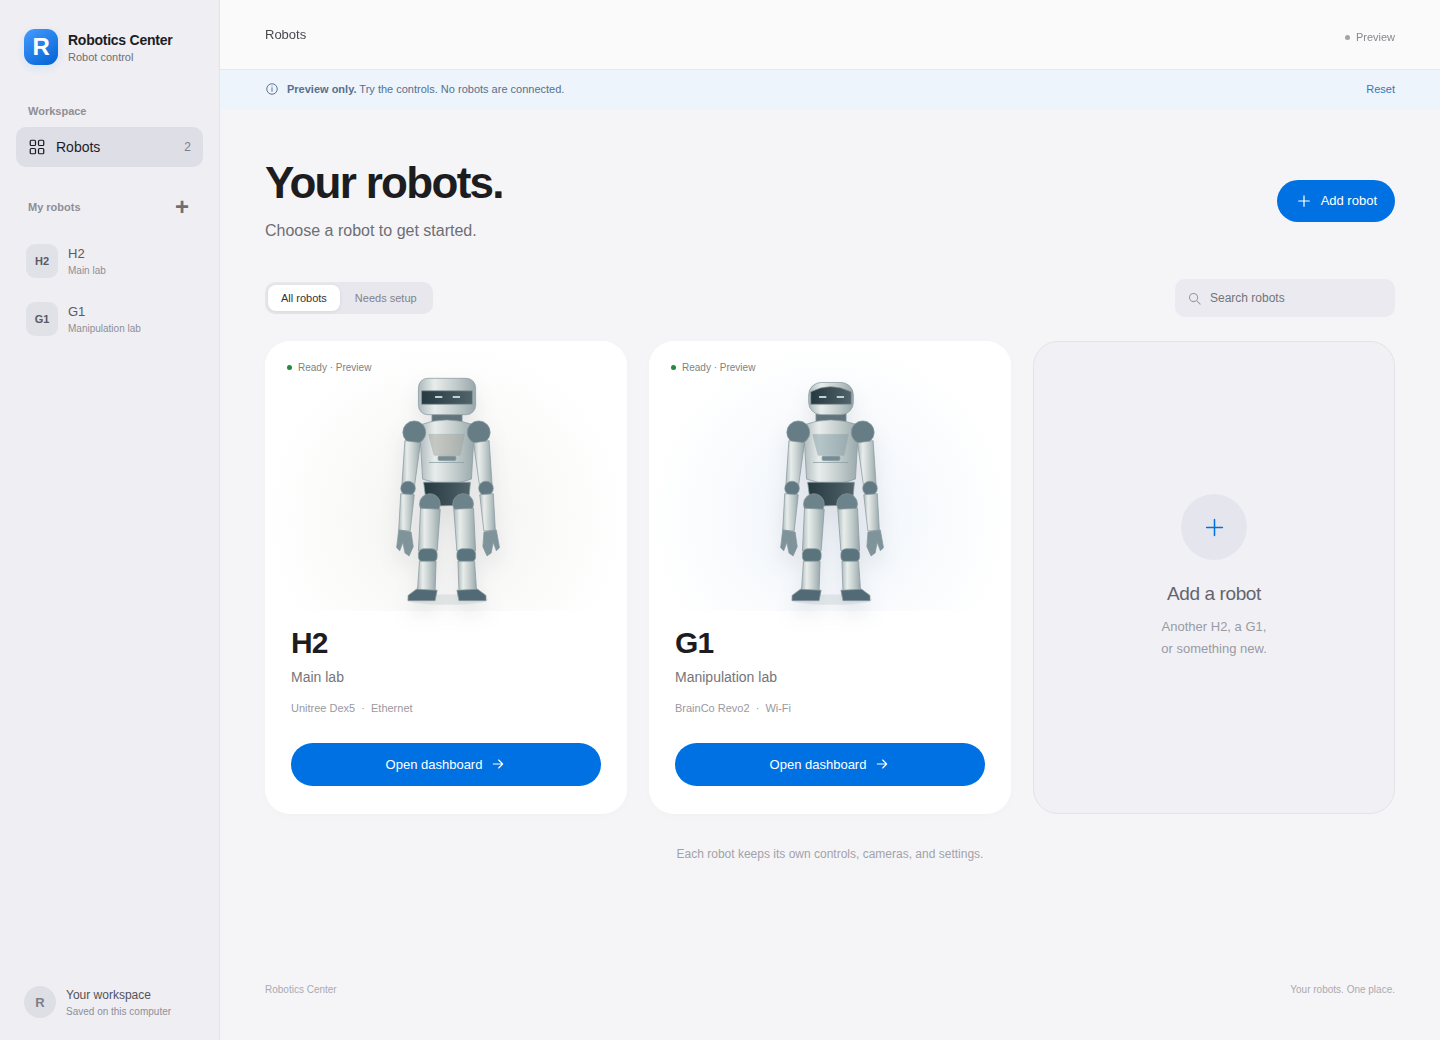
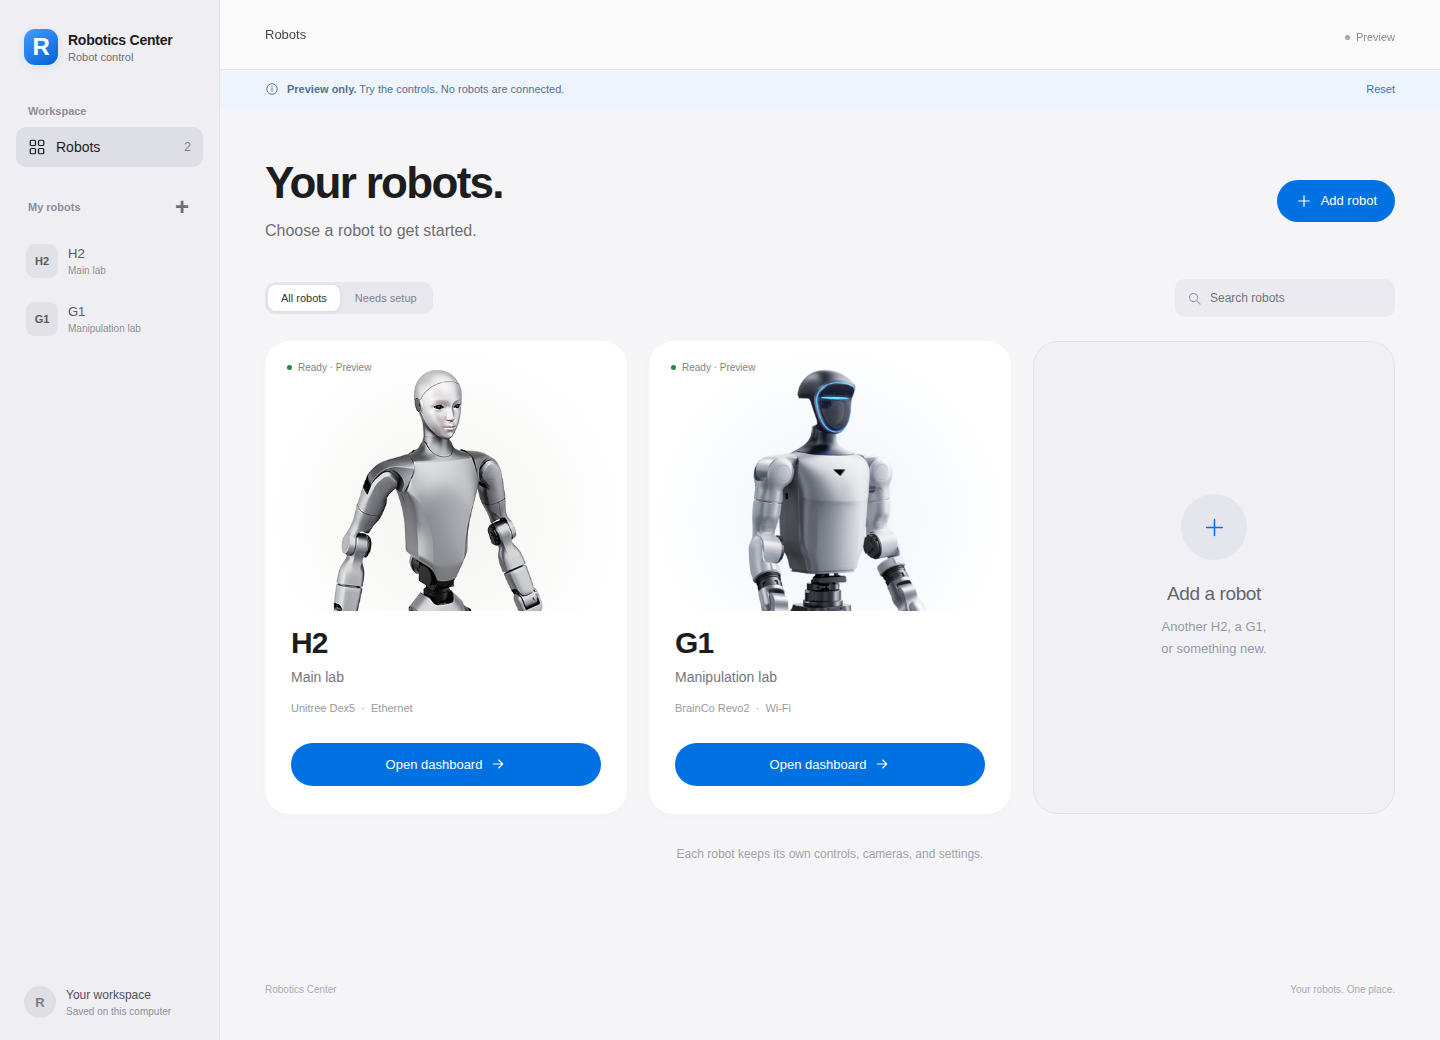
Use official Unitree H2 and G1 product images

Changed region(s): [[0.5, 0.3385, 0.6562, 0.5846], [0.2188, 0.3385, 0.375, 0.5846]]

diff --git a/dashboard/preview/app.js b/dashboard/preview/app.js
@@ -43,6 +43,7 @@ function toast(text){$('#toast').textContent=text;$('#toast').classList.add('vis
 
 let artSequence=0;
 function robotArt(model='h2'){
+  if(model==='h2'||model==='g1')return `<img class="robot-illustration robot-photo" src="assets/unitree-${model}.png" alt="Unitree ${model.toUpperCase()} humanoid robot" width="428" height="404" decoding="async">`;
   const uid='metal'+(++artSequence),g1=model==='g1',accent=g1?'#849ea7':'#a6a49c';
   return `<svg class="robot-illustration" viewBox="0 0 150 230" aria-hidden="true"><defs><linearGradient id="${uid}" x1="0" x2="1"><stop stop-color="#aeb9bc"/><stop offset=".28" stop-color="#e8edeb"/><stop offset=".6" stop-color="#c8d1d0"/><stop offset="1" stop-color="#98a8ac"/></linearGradient><linearGradient id="${uid}dark"><stop stop-color="#253940"/><stop offset="1" stop-color="#52636a"/></linearGradient></defs><ellipse cx="76" cy="221" rx="39" ry="5" fill="#8b9ba0" opacity=".18"/><g stroke="#87989d" stroke-width=".7"><path d="M61 39h29v17H61z" fill="#61747b"/><rect x="${g1?54:48}" y="${g1?12:8}" width="${g1?43:55}" height="${g1?31:35}" rx="${g1?12:9}" fill="url(#${uid})"/><path d="${g1?'M56 21q19-10 39 0v12H56Z':'M51 20h49v13H51Z'}" fill="url(#${uid}dark)"/><path d="M64 26h7m10 0h7" stroke="#bdd3d3" stroke-width="1.8"/><path d="M49 53q26-10 53 0l-3 52q-23 9-47 0Z" fill="url(#${uid})"/><path d="M58 62h34l-4 20H63Z" fill="${accent}" opacity=".5"/><path d="M58 89h34" stroke="#879ba1"/><rect x="67" y="83" width="17" height="4" rx="1" fill="#758c94"/><circle cx="44" cy="60" r="11" fill="#667d86"/><circle cx="106" cy="60" r="11" fill="#667d86"/><path d="m35 68 15 2-6 43-12-1Z" fill="url(#${uid})"/><path d="m101 70 15-2 3 44-12 1Z" fill="url(#${uid})"/><circle cx="38" cy="114" r="7" fill="#607983"/><circle cx="113" cy="114" r="7" fill="#607983"/><path d="m31 119 13 1-4 35-11-1Z" fill="url(#${uid})"/><path d="m107 120 13-1 2 35-11 1Z" fill="url(#${uid})"/><path d="m29 154 12 2 2 14-4 9-4-3-2-10-3 8-3-3Z" fill="#7e939a"/><path d="m111 156 12-2 3 17-3 3-3-8-2 10-4 3-4-9Z" fill="#7e939a"/><path d="M53 108h45l-2 22-40 1Z" fill="url(#${uid}dark)"/><circle cx="59" cy="129" r="10" fill="#6c838c"/><circle cx="91" cy="129" r="10" fill="#6c838c"/><path d="m50 133 19 1-3 40H48Z" fill="url(#${uid})"/><path d="m82 134 19-1 2 41H85Z" fill="url(#${uid})"/><rect x="48" y="172" width="18" height="13" rx="5" fill="#5a747e"/><rect x="85" y="172" width="18" height="13" rx="5" fill="#5a747e"/><path d="M49 184h16l-1 29H47Z" fill="url(#${uid})"/><path d="M86 184h16l2 29H87Z" fill="url(#${uid})"/><path d="m46 211 20 1-2 10H38v-5Z" fill="#526a75"/><path d="m85 212 20-1 8 6v5H87Z" fill="#526a75"/></g></svg>`;
 }

diff --git a/dashboard/preview/styles.css b/dashboard/preview/styles.css
@@ -107,6 +107,7 @@ main { max-width: 1370px; padding: 49px 45px 50px; margin: auto; min-height: cal
 .robot-card-art { display: flex; align-items: center; justify-content: center; height: 270px; position: relative; background: radial-gradient(ellipse at 50% 65%,#f3f3f1,#fff 70%); }
 .robot-card-art.g1 { background: radial-gradient(ellipse at 50% 65%,#eff4fa,#fff 70%); }
 .robot-illustration { width: 157px; height: 239px; margin-top: 27px; filter: drop-shadow(0 12px 10px #2a374619); }
+.robot-card-art .robot-photo { width: 100%; height: 100%; margin: 0; object-fit: contain; object-position: center bottom; filter: none; }
 .card-badge { position: absolute; top: 21px; left: 22px; display: inline-flex; align-items: center; gap: 6px; color: #7e8381; font-size: 10px; }
 .card-badge .dot { width: 5px; height: 5px; }
 .robot-card-content { padding: 15px 26px 28px; flex: 1; display: flex; flex-direction: column; }

diff --git a/dashboard/checks/browser_check.py b/dashboard/checks/browser_check.py
@@ -39,7 +39,7 @@ async def main():
                     return result.get('result', {})
 
         async def evaluate(expression):
-            result = await call('Runtime.evaluate', {'expression': expression, 'returnByValue': True})
+            result = await call('Runtime.evaluate', {'expression': expression, 'returnByValue': True, 'awaitPromise': True})
             if 'exceptionDetails' in result:
                 raise RuntimeError(result['exceptionDetails'])
             return result['result'].get('value')
@@ -70,6 +70,8 @@ async def main():
         await asyncio.sleep(.5)
         await click('[data-action="reset"]')
         await expect('Robot picker contains H2 and G1', 'document.querySelectorAll("[data-robot-card]").length === 2')
+        await evaluate('Promise.all(Array.from(document.querySelectorAll(".robot-photo"), image => image.decode()))')
+        await expect('Official H2 and G1 product images load', 'document.querySelectorAll(".robot-photo").length === 2 && Array.from(document.querySelectorAll(".robot-photo")).every(image => image.complete && image.naturalWidth === 428 && image.naturalHeight === 404 && image.alt.includes("Unitree"))')
         await expect('Preview disclosure stays visible', 'document.querySelector(".preview-banner").textContent.includes("No robots are connected")')
         await screenshot('robots.png')
 

diff --git a/dashboard/preview/assets/SOURCES.md b/dashboard/preview/assets/SOURCES.md
@@ -1,0 +1,15 @@
+# Official Unitree product images
+
+The robot picker uses product images published by Unitree Robotics, downloaded
+on 2026-11-13. Both PNG files are preserved unchanged, including transparency.
+They are served locally so the preview does not depend on an external image host.
+
+| Local file | Official product page | Original image |
+| --- | --- | --- |
+| `unitree-h2.png` | [Unitree H2](https://www.unitree.com/H2/) | [428 × 404 PNG](https://www.unitree.com/images/4bd5086c153f4729830aa43ee668d9df_428x404.png) |
+| `unitree-g1.png` | [Unitree G1](https://www.unitree.com/g1/) | [428 × 404 PNG](https://www.unitree.com/images/fb1eee1cce424ca0893a3d426a55e004_428x404.png) |
+
+The original images appear in Unitree's humanoid robot navigation, associated
+with the H2 and G1 product links respectively. Product images belong to Unitree
+Robotics; the repository's code license does not relicense these third-party
+assets. They identify the robot models in this dashboard preview.

diff --git a/dashboard/checks/README.md b/dashboard/checks/README.md
@@ -20,7 +20,7 @@ dashboard/.venv-checks/bin/pip install -r dashboard/checks/requirements.txt
 dashboard/.venv-checks/bin/python dashboard/checks/browser_check.py
 ```
 
-The script checks robot selection, independent session state, Prepare/Start/Stop,
+The script checks official image loading, robot selection, independent session state, Prepare/Start/Stop,
 model-specific controls, camera lists, Add robot, and mobile overflow. It also
 checks for browser exceptions and robot API requests. Its disposable preview
 profiles live only in that browser profile. Screenshots and results are written

diff --git a/dashboard/README.md b/dashboard/README.md
@@ -13,6 +13,9 @@ Stop available while the preview session is active.
 
 ![Robot selection preview](docs/robots.png)
 
+The H2 and G1 cards use official Unitree product images. See the
+[image sources and attribution](preview/assets/SOURCES.md).
+
 ![G1 control preview](docs/g1-control.png)
 
 From the repository root:
